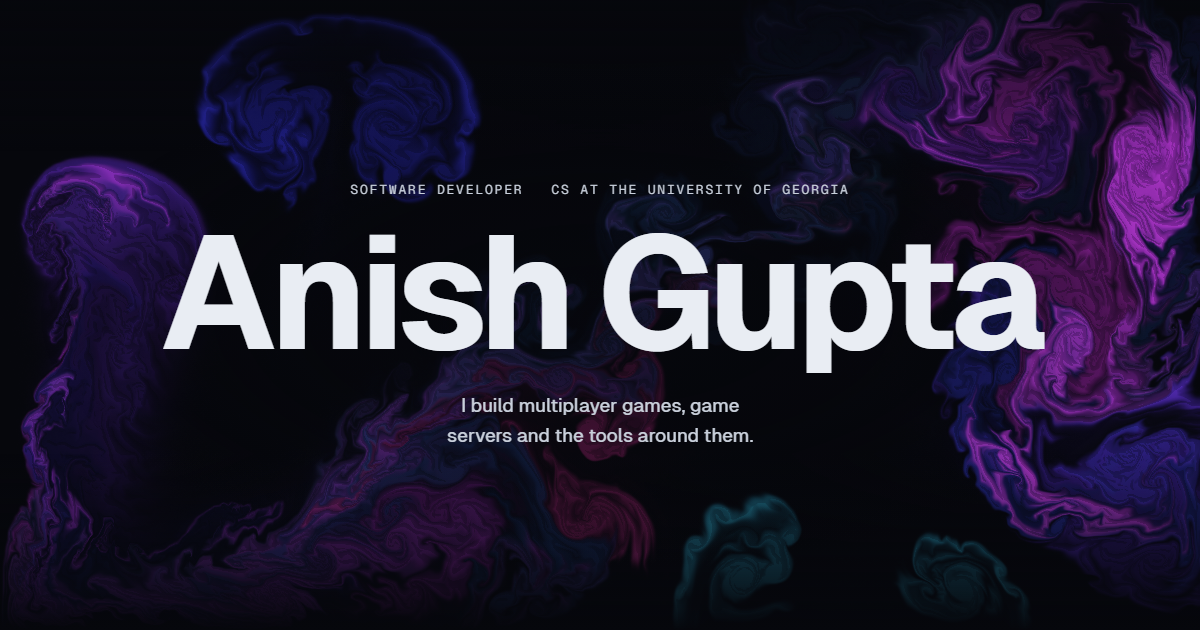
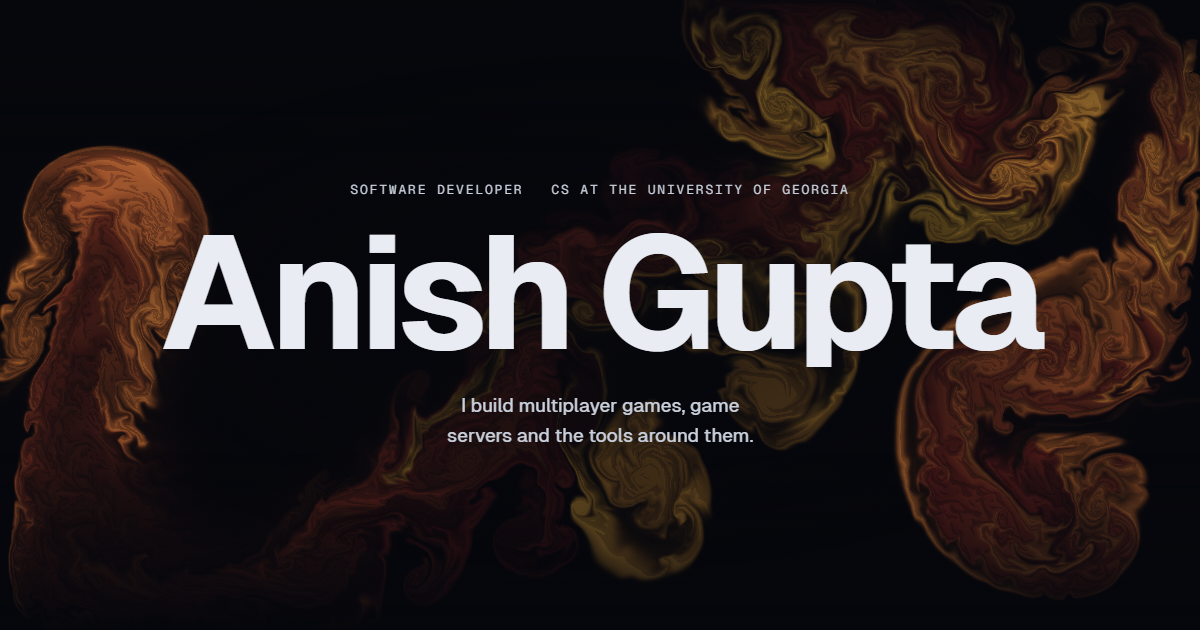
Turn the ink to fire: red through orange to amber, with an ember accent
The ink's hue arc moves from cyan, violet and pink to red (-0.01, wrapping
just below 0), orange and amber (0.11): neighbouring hues, so the fluid mixes
them cleanly. The live accent follows on the same clock; dark text on it still
clears 4.5:1 at all 1000 sampled points. Its resting value is the arc's
midpoint, rgb(255 148 102).

The resting accent moves from blue to ember #f06a2a with dark text on it
(6.52:1, now checked by a unit test that reads the token). White on it is
only 3.09:1, so the video toggle's hover icon turns dark too.

An arc starting at -0.03 made the light accent read pink at the red end (seen
on a hovered button), so it starts at -0.01.

The still and the share image are recaptured from the new ink (seed 19, looked
at); the transition cover uses the still and turns fire with it.

diff --git a/tests/unit/palette.test.ts b/tests/unit/palette.test.ts
@@ -1,3 +1,4 @@
+import { readFileSync } from 'node:fs';
 import { describe, expect, it } from 'vitest';
 import {
   INK_HUE_CYCLE_MS,
@@ -42,7 +43,8 @@ describe('hexToRgb', () => {
 });
 
 describe('inkHue', () => {
-  it('stays between cyan (0.52) and pink (0.92) for any time and rand', () => {
+  // Deep red sits just below 0; hsvToRgb wraps it, so the arc never crosses into magenta or green.
+  it('stays between deep red (-0.01) and amber (0.11) for any time and rand', () => {
     let min = Infinity;
     let max = -Infinity;
     for (let i = 0; i < SAMPLES; i++) {
@@ -51,9 +53,9 @@ describe('inkHue', () => {
       min = Math.min(min, hue);
       max = Math.max(max, hue);
     }
-    expect(min).toBeGreaterThanOrEqual(0.52);
-    expect(max).toBeLessThanOrEqual(0.92);
-    expect(max - min).toBeGreaterThan(0.35);
+    expect(min).toBeGreaterThanOrEqual(-0.01);
+    expect(max).toBeLessThanOrEqual(0.11);
+    expect(max - min).toBeGreaterThan(0.1);
   });
 });
 
@@ -68,16 +70,16 @@ describe('INK_HUE_CYCLE_MS', () => {
       max = Math.max(max, hue);
       expect(inkHue(timeMs + INK_HUE_CYCLE_MS, 0)).toBeCloseTo(hue, 9);
     }
-    expect(min).toBeCloseTo(0.52, 3);
-    expect(max).toBeCloseTo(0.92, 3);
+    expect(min).toBeCloseTo(-0.01, 3);
+    expect(max).toBeCloseTo(0.11, 3);
   });
 });
 
 describe('INK_HUE_START_MS', () => {
-  it('is the cyan end of the cycle, and the hue climbs from there through blue to pink', () => {
-    expect(inkHue(INK_HUE_START_MS, 0)).toBeCloseTo(0.52, 9);
-    expect(inkHue(INK_HUE_START_MS + INK_HUE_CYCLE_MS / 4, 0)).toBeCloseTo(0.72, 9);
-    expect(inkHue(INK_HUE_START_MS + INK_HUE_CYCLE_MS / 2, 0)).toBeCloseTo(0.92, 9);
+  it('is the red end of the cycle, and the hue climbs from there through orange to amber', () => {
+    expect(inkHue(INK_HUE_START_MS, 0)).toBeCloseTo(-0.01, 9);
+    expect(inkHue(INK_HUE_START_MS + INK_HUE_CYCLE_MS / 4, 0)).toBeCloseTo(0.05, 9);
+    expect(inkHue(INK_HUE_START_MS + INK_HUE_CYCLE_MS / 2, 0)).toBeCloseTo(0.11, 9);
   });
 });
 
@@ -109,9 +111,24 @@ describe('the live colour', () => {
   const contrast = (a: Rgb, b: Rgb) =>
     (Math.max(luminance(a), luminance(b)) + 0.05) / (Math.min(luminance(a), luminance(b)) + 0.05);
 
-  it('liveInkHue starts at cyan on the page clock and reaches pink half a cycle later', () => {
-    expect(liveInkHue(0)).toBeCloseTo(0.52, 9);
-    expect(liveInkHue(INK_HUE_CYCLE_MS / 2)).toBeCloseTo(0.92, 9);
+  it('liveInkHue starts at deep red on the page clock and reaches amber half a cycle later', () => {
+    expect(liveInkHue(0)).toBeCloseTo(-0.01, 9);
+    expect(liveInkHue(INK_HUE_CYCLE_MS / 2)).toBeCloseTo(0.11, 9);
+  });
+
+  const token = (name: string) => {
+    const css = readFileSync('src/styles/tokens.css', 'utf8');
+    const value = new RegExp(`${name}:\\s*(#[0-9a-f]{6});`, 'i').exec(css)?.[1];
+    return hexToRgb(value ?? '');
+  };
+
+  it('the resting accent is an ember orange that dark text reads on at WCAG AA', () => {
+    const accent = token('--accent')!;
+    expect(accent).toBeDefined();
+    const [r, g, b] = accent;
+    expect(r).toBeGreaterThan(g);
+    expect(g).toBeGreaterThan(b);
+    expect(contrast(accent, BG)).toBeGreaterThanOrEqual(4.5);
   });
 
   it('dark text on the live colour meets WCAG AA at every point in the cycle', () => {

diff --git a/src/ink/palette.ts b/src/ink/palette.ts
@@ -1,15 +1,17 @@
 export type Rgb = [number, number, number];
 
-const HUE_START = 0.52;
-const HUE_SPAN = 0.4;
+// Deep red (just below 0, which hsvToRgb wraps) to amber: neighbouring hues, so the fluid mixes
+// them cleanly instead of into brown.
+const HUE_START = -0.01;
+const HUE_SPAN = 0.12;
 const HUE_PERIOD_MS = 3500;
 const SATURATION = 0.85;
 const INTENSITY = 0.15;
 
-/** How long the hue takes to travel from cyan to pink and back. */
+/** How long the hue takes to travel from deep red to amber and back. */
 export const INK_HUE_CYCLE_MS = 2 * Math.PI * HUE_PERIOD_MS;
 
-/** The point in the cycle where the hue is cyan and about to climb through blue and violet to pink. */
+/** The point in the cycle where the hue is deep red and about to climb through orange to amber. */
 export const INK_HUE_START_MS = -INK_HUE_CYCLE_MS / 4;
 
 export function hsvToRgb(h: number, s: number, v: number): Rgb {

diff --git a/src/ink/fluid.ts b/src/ink/fluid.ts
@@ -250,7 +250,7 @@ export function createInkFluid(canvas: HTMLCanvasElement, opts: InkOptions = {})
     }
   };
 
-  // Strokes follow the hue clock, which starts every visit at cyan. The opening splats each take a
+  // Strokes follow the hue clock, which starts every visit at deep red. The opening splats each take a
   // random point in the cycle instead, so the first frame already shows the whole range.
   const openingSplats = (g: Gpu) =>
     randomSplats(g, params.startSplats, START_SPLAT.intensity, () => Math.random() * INK_HUE_CYCLE_MS);

diff --git a/src/styles/tokens.css b/src/styles/tokens.css
@@ -8,9 +8,9 @@
   --line-strong: rgba(255, 255, 255, 0.14);
   --text: #e9edf3;
   --muted: #8a93a3;
-  --accent: #2f6cf0;
-  --accent-ink: #ffffff;
-  --ink-live: rgb(151 102 255);
+  --accent: #f06a2a;
+  --accent-ink: #06070c;
+  --ink-live: rgb(255 148 102);
 
   --font-sans: 'Geist Sans', system-ui, -apple-system, 'Segoe UI', sans-serif;
   --font-mono: 'Geist Mono', ui-monospace, 'Cascadia Mono', Consolas, monospace;

diff --git a/CLAUDE.md b/CLAUDE.md
@@ -63,7 +63,7 @@ Everything committed is world-readable, and anything on `main` is live within a 
 | `src/content/`, `src/content.config.ts` | the `projects` collection; `schema.ts` holds `makeProjectSchema`, testable without Astro |
 | `src/data/site.ts` | name, links, education, skills, certs |
 | `src/lib/` | helpers: `projects.ts` (`loadProjects`, the one reader of the collection, sorted and split into featured and compact, with download counts; cached per build), `modrinth.ts` (build-time download count with a fallback), `format.ts` (`formatSpan`, `formatCount`), `clock.ts` (`formatLocalTime`, Eastern by default) |
-| `src/ink/` | the WebGL2 fluid simulation: `fluid.ts` (solver, start/stop, context loss), `shaders.ts`, `palette.ts` (the cyan-to-pink hue, and `liveInkRgb` for the page accent), `size.ts` (canvas pixel cap, grid size) |
+| `src/ink/` | the WebGL2 fluid simulation: `fluid.ts` (solver, start/stop, context loss), `shaders.ts`, `palette.ts` (the fire hue, red through orange to amber, and `liveInkRgb` for the page accent), `size.ts` (canvas pixel cap, grid size) |
 | `src/assets/ink-still.webp` | the hero's still: shown without JS or WebGL, under reduced motion, and under the canvas until it fades in |
 | `src/motion/` | every scroll, hover and navigation effect: `lifecycle.ts` (`onPage`), `prefs.ts` (reduced motion, `isWide`, `HOVER`, `canHover`), `scroll.ts` (Lenis on the GSAP ticker; same-page `#` links glide through its own `<body>` click handler, `html[data-triggers]`, the scroll-progress line), `header.ts` (`initHeader`: `data-solid` past 40 px, `html[data-header-hidden]` on scrolling down past 30% of the viewport, never while the picker is open, focus is inside or under reduced motion), `picker.ts` (`initWorkPicker`: opens on hover at 720 px and up, click, tap, Enter or Space; Escape returns focus to Work), `accent.ts` (`--ink-live`, the page accent), `reveal.ts`, `scrub.ts` (rows and `[data-parallax]`; 720 px and up only), `copy.ts` (click the footer email to copy it), `spotlight.ts` (the project cards' cursor light; hover screens only), `clock.ts`, `video.ts` (the case-study clip's pause button); all started from one `onPage` in `Base.astro`; `wipe.ts` (`initInkWipe`: the page-transition cover and the once-per-session preloader, registered once outside `onPage`) |
 | `src/components/Button.astro` | the one button: ink-wash hover, no lean; `.btn`, `.btn-fill`, `.btn-text` |
@@ -93,8 +93,10 @@ Everything committed is world-readable, and anything on `main` is live within a 
 - **Projects shown are exactly three:** Stashout and FlameBurst as case studies, Server Insight as a
   compact card. Adding one is a design decision for the owner, not an edit.
 - **`--ink-live` is a fill, line or glow, never text.** `initLiveAccent` writes it on `<html>` every 200 ms from the ink's hue (saturation 0.6, value 1), on the same clock as the hero's ink; under reduced motion the token keeps its resting value. Dark text on it measures at least 4.5:1 through the whole cycle (a unit test checks 1000 points).
-- **The accent `#2f6cf0` is a fill, never text.** On `--bg` it measures 4.34:1, below WCAG AA for
-  body text; white on the accent is 4.64:1. Muted text (`#8a93a3`) is 6.5:1 on `--bg`.
+- **The accent `#f06a2a` (ember) is a fill, focus ring or line, never text.** Anything on it is
+  dark: `--accent-ink` is `--bg`, 6.52:1 (a unit test reads the token and checks at least 4.5:1).
+  White on it is only 3.09:1, so never put white on the accent. Muted text (`#8a93a3`) is 6.5:1 on
+  `--bg`.
 - **Media rules** (`scripts/media-rules.mjs`, enforced by `import-image.mjs`): nothing AI-generated
   (`Whisk`, `Gemini`) is ever presented as real footage, nothing from a `Technical` folder (admin,
   console, DNS), no `admin-*` or `auth` screens. Beyond what the script can check, **look at every
